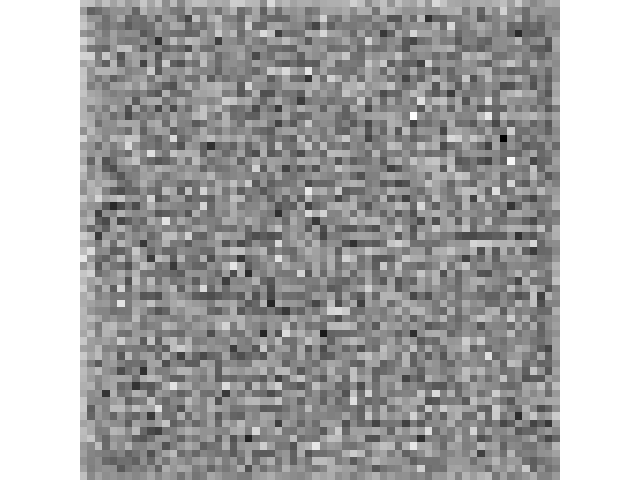
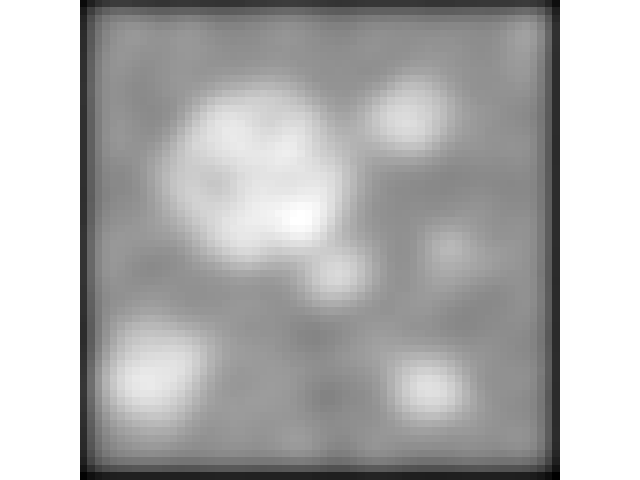
update the code and the viualization

diff --git a/main.py b/main.py
@@ -7,6 +7,8 @@ from argparse import ArgumentParser
 import matplotlib.pyplot as plt
 from glob import glob
 import os
+import numpy as np
+from PIL import Image
 
 
 pl.seed_everything(42)
@@ -15,37 +17,47 @@ pl.seed_everything(42)
 
 def show_images(folder_name, tv_loss_weight=None,  use_tv_loss=False):
        
-    images = glob(os.path.join(folder_name, './mask_*.png'))
+    images = glob(os.path.join(folder_name, 'mask_*.png'))
+
     if use_tv_loss:
         images = [i for i in images if 'tv_loss' in i]
-        images = sorted(images, key=lambda x: int(x.split('_')[2].split('.')[0]))
+        images = sorted(images, key=lambda x: int(x.split('_')[-3]))
     else:
-        images = [i for i in images if 'tv_loss' not in i]
         images = sorted(images, key=lambda x: int(x.split('_')[-1].split('.')[0]))
 
-    image_num = len(images)
-    fig, axs = plt.subplots(1, image_num, figsize=(20, 10))
-    plt.subplots_adjust(wspace=0.05, hspace=0.05)  # Adjust these values as needed
+    num_images = len(images)
+    grid_size = int(np.ceil(np.sqrt(num_images)))
+
+    plt.figure(figsize=(grid_size * 3, grid_size * 3))  # 3 inches per image
+
+    # Loop over the image files and add them to the plot
+    for i, file in enumerate(images):
+        # Read the image
+        print(file)
+        img = Image.open(file)
+        axs = plt.subplot(grid_size, grid_size, i + 1)
+        plt.imshow(img, cmap='gray')
+        epoch_num = file.split('_')[-3]
+        axs.set_title(f"Epoch {epoch_num}", fontsize=10)
+        plt.suptitle(f'{"TV" if use_tv_loss else "reconstuction"} Loss{" , weight: " + str(tv_loss_weight) if tv_loss_weight else ""}', fontsize=16)
+        plt.axis('off')
     plt.tight_layout()
-    for i, img in enumerate(images):
-        axs[i].imshow(plt.imread(img), cmap='gray')
-        axs[i].set_title(os.path.basename(img))
-        axs[i].axis('off')
-        axs[i].set_xticks([])
-        axs[i].set_yticks([])
-        # axs[i].set_frame_on(False)
-        # axs[i].set_adjustable('box')
-    plt.suptitle(f'{"TV" if use_tv_loss else "reconstuction"} Loss{" with" + str(tv_loss_weight) if tv_loss_weight else ""}', fontsize=16)
     plt.savefig(os.path.join(folder_name, f'result_{"use_tv_loss" if use_tv_loss else ""}.png'))
-
-
-
+    
+    
+    
+    
+    
 if __name__ == '__main__':
     
 
     parser = ArgumentParser()
     parser.add_argument('--tv_loss', action='store_true')
-    parser.add_argument('--tv_loss_weight', type=float, default=0.1)
+    parser.add_argument('--circle', action='store_true')
+    parser.add_argument('--tv_loss_weight', type=float, default=1.0)
+    parser.add_argument('--epochs', type=int, default=50)
+    parser.add_argument('--save_every_n_epochs', type=int, default=None, help='save the image every n epochs (has higher priority than epochs_to_check)')
+    parser.add_argument('--epochs_to_check', nargs='+', type=int, default=[0, 5, 8, 10, 15, 20, 30, 40, 49], help='save the image at these epochs (has lower priority than save_every_n_epochs)')
     args = parser.parse_args()
     
     folder_name = "no_tv_loss"
@@ -56,13 +68,13 @@ if __name__ == '__main__':
     if not os.path.exists(folder_name):
         os.mkdir(folder_name)
     
-    dataset = RandomDataset(step=4)
+    dataset = RandomDataset(step=4, circle=args.circle)
 
-    dataloader = DataLoader(dataset, batch_size=1, num_workers=4, persistent_workers=True)
+    dataloader = DataLoader(dataset, batch_size=1, num_workers=1, persistent_workers=True)
 
     model = SimpleMaskEstimator(use_tv_loss=args.tv_loss, tv_loss_weight=args.tv_loss_weight)
 
-    trainer = pl.Trainer(max_epochs=150, callbacks=[VisualizeMaskCallback(dataset, every_n_epochs=30, folder_name=folder_name)])
+    trainer = pl.Trainer(max_epochs=args.epochs, callbacks=[VisualizeMaskCallback(dataset, every_n_epochs=args.save_every_n_epochs, epochs_to_check= args.epochs_to_check, folder_name=folder_name)])
 
     trainer.fit(model, dataloader)
     

diff --git a/callbacks.py b/callbacks.py
@@ -7,25 +7,32 @@ import pytorch_lightning as pl
 import PIL
 import os
 class VisualizeMaskCallback(pl.Callback):
-    def __init__(self, dataset, every_n_epochs:int=10, folder_name:str='no_tv_loss'):
+    def __init__(self, dataset, every_n_epochs:int=None, folder_name:str='no_tv_loss', epochs_to_check = [0, 5, 8, 10, 15, 20, 30, 40, 49]):
         self.every_n_epochs = every_n_epochs
         self.folder_name = folder_name
+        self.epochs_to_check  = epochs_to_check
         
 
     def on_train_batch_end(self, trainer, pl_module, outputs, batch, batch_idx):
-        if trainer.current_epoch % self.every_n_epochs == 0:
-            x, y = batch
-            with torch.no_grad():
-                y_hat = pl_module(x)
-            # remove any white spaceing aroung the image
-            plt.axis('off')
-            plt.tight_layout(pad=0)
-            plt.imshow(y_hat.cpu().squeeze().cpu(), cmap='gray')
-            
-            if pl_module.use_tv_loss:
-                image_path = os.path.join(self.folder_name, f'mask_epoch_{trainer.current_epoch}_tv_loss.png')
-            else:
-                image_path = os.path.join(self.folder_name, f'mask_epoch_{trainer.current_epoch}.png')
-            plt.savefig(image_path)
+        if self.every_n_epochs is not None:
+            if trainer.current_epoch % self.every_n_epochs == 0:
+                self._save_output(batch, pl_module, trainer)
+        if trainer.current_epoch in self.epochs_to_check:
+            self._save_output(batch, pl_module, trainer)
+        
+    def _save_output(self, batch, pl_module, trainer):
+        x, y = batch
+        with torch.no_grad():
+            y_hat = pl_module(x)
+        # remove any white spaceing aroung the image
+        plt.axis('off')
+        plt.tight_layout(pad=0)
+        plt.imshow(y_hat.cpu().squeeze().cpu(), cmap='gray')
+        
+        if pl_module.use_tv_loss:
+            image_path = os.path.join(self.folder_name, f'mask_epoch_{trainer.current_epoch}_tv_loss.png')
+        else:
+            image_path = os.path.join(self.folder_name, f'mask_epoch_{trainer.current_epoch}.png')
+        plt.savefig(image_path)
             
             

diff --git a/data.py b/data.py
@@ -5,21 +5,28 @@ import matplotlib.pyplot as plt
 import torch
 import torch.nn as nn
 from torch.utils.data import Dataset, DataLoader
+import cv2
 
 class RandomDataset(Dataset):
-    def __init__(self, channels:int=96, step:int=2):
+    def __init__(self, channels:int=96, circle=False, step:int=8):
         '''
             channels: the number of channels in the input image
             step: the size of the checkerboard square
         '''
         self.channels = channels
         self.input = torch.randn(channels, 64, 64)
-        self.label = torch.zeros(1, 64, 64)
-        self.step = step
-        for i in range(0, 64, self.step):
-            for j in range(0, 64, self.step):
-                if (i // self.step) % 2 == (j // self.step) % 2:
-                    self.label[:, i:i+self.step, j:j+self.step] = 1
+        if not circle:
+            self.label = torch.zeros(1, 64, 64)
+            self.step = step
+            for i in range(0, 64, self.step):
+                for j in range(0, 64, self.step):
+                    if (i // self.step) % 2 == (j // self.step) % 2:
+                        self.label[:, i:i+self.step, j:j+self.step] = 1
+        else:
+            # read "lable.png" as the label in 1 channel
+            self.label = cv2.imread('label.png', cv2.IMREAD_GRAYSCALE)
+            self.label = torch.from_numpy(self.label).unsqueeze(0).float()
+            
         
     def __len__(self):
         return 1

diff --git a/model.py b/model.py
@@ -47,7 +47,7 @@ class SimpleMaskEstimator(pl.LightningModule):
         self.log('test_loss', loss, on_epoch=True, prog_bar=True)
     
     def configure_optimizers(self) -> Any:
-        optimizer = torch.optim.Adam(self.parameters(), lr=1e-3)
+        optimizer = torch.optim.Adam(self.parameters(), lr=0.005)
         return optimizer
     
     def total_variation_loss(self, x):
@@ -55,8 +55,8 @@ class SimpleMaskEstimator(pl.LightningModule):
         diff1 = x[..., 1:, :] - x[..., :-1, :]
         diff2 = x[..., :, 1:] - x[..., :, :-1]
 
-        res1 = diff1.abs().sum([1, 2, 3])
-        res2 = diff2.abs().sum([1, 2, 3])
+        res1 = torch.square(diff1).sum([1, 2, 3])
+        res2 = torch.square(diff2).sum([1, 2, 3])
         score = res1 + res2
         return score
 
